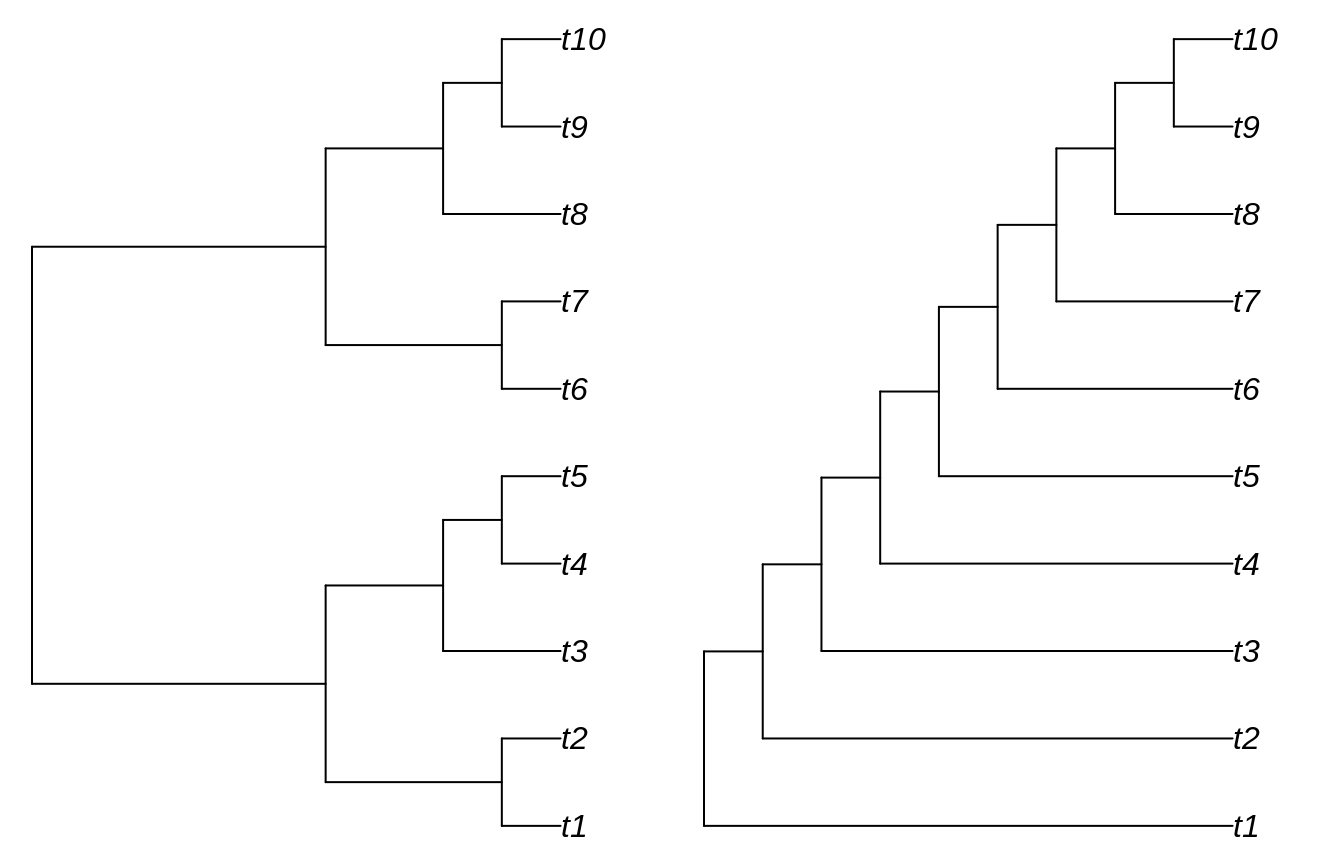
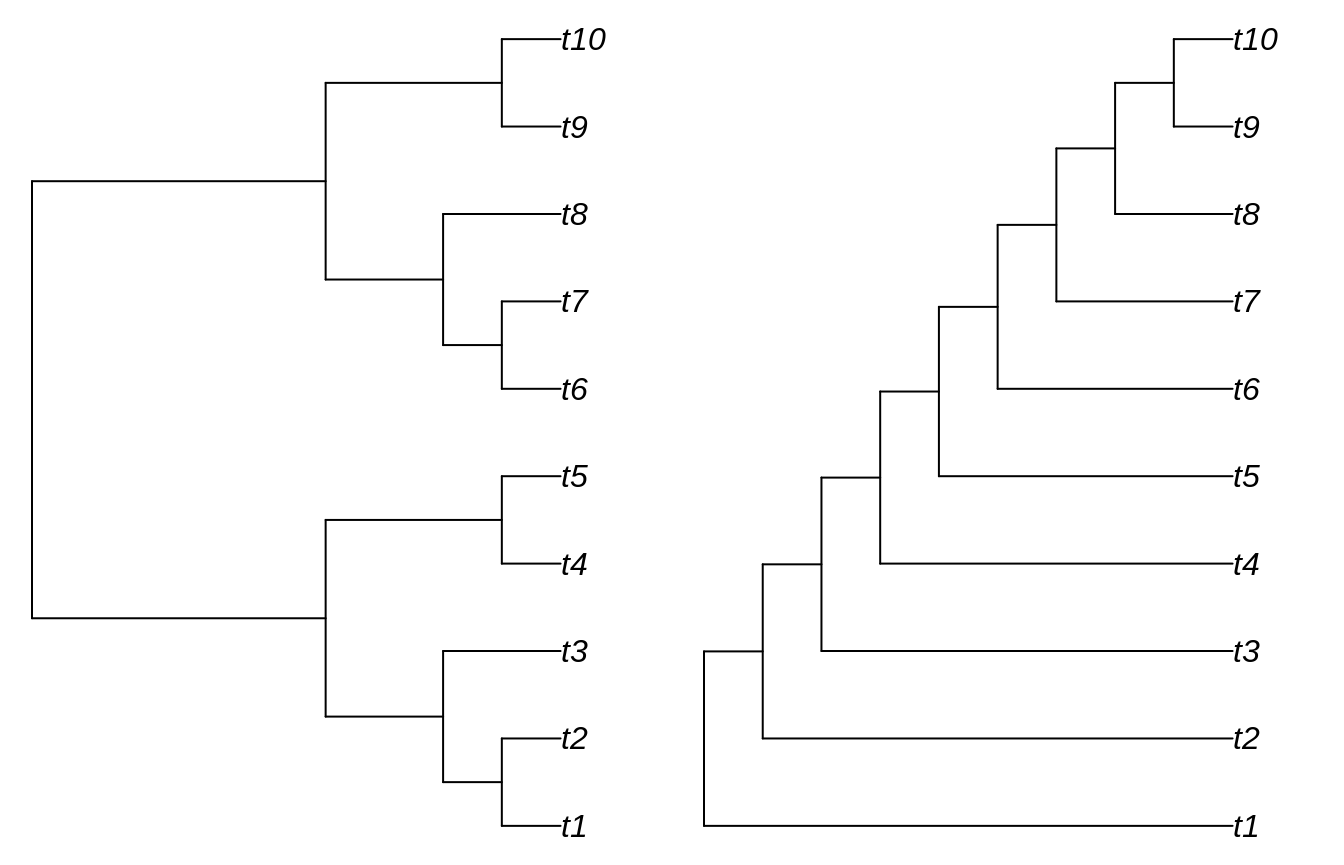
Built site for TBRDist: 1.0.0@6a52840

diff --git a/articles/TBRDist.html b/articles/TBRDist.html
@@ -76,7 +76,7 @@
       <h1 data-toc-skip>Using TBRDist</h1>
                         <h4 class="author">Martin R. Smith</h4>
             
-            <h4 class="date">2020-04-16</h4>
+            <h4 class="date">2020-06-19</h4>
       
       <small class="dont-index">Source: <a href="https://github.com/ms609/TBRDist/blob/master/vignettes/TBRDist.Rmd"><code>vignettes/TBRDist.Rmd</code></a></small>
       <div class="hidden name"><code>TBRDist.Rmd</code></div>
@@ -91,41 +91,42 @@
 <a href="#loading-trees" class="anchor"></a>Loading trees</h2>
 <p>This document assumes familiarity with the process of <a href="https://ms609.github.io/TreeTools/articles/load-trees.html">loading trees into R</a>.</p>
 <p>We’ll work with some simple trees generated using the ‘<a href="https://ms609.github.io/TreeTools">TreeTools</a>’ package.</p>
-<div class="sourceCode" id="cb1"><html><body><pre class="r"><span class="fu"><a href="https://rdrr.io/r/base/library.html">library</a></span>(<span class="st">'TreeTools'</span>)</pre></body></html></div>
-<pre><code>## Loading required package: ape</code></pre>
-<div class="sourceCode" id="cb3"><html><body><pre class="r"><span class="no">tree1</span> <span class="kw">&lt;-</span> <span class="fu"><a href="https://ms609.github.io/TreeTools/reference/BalancedTree.html">BalancedTree</a></span>(<span class="fl">10</span>)
-<span class="no">tree2</span> <span class="kw">&lt;-</span> <span class="kw pkg">TreeTools</span><span class="kw ns">::</span><span class="fu"><a href="https://ms609.github.io/TreeTools/reference/PectinateTree.html">PectinateTree</a></span>(<span class="fl">10</span>)
-<span class="fu"><a href="https://rdrr.io/r/graphics/par.html">par</a></span>(<span class="kw">mfrow</span><span class="kw">=</span><span class="fl">1</span>:<span class="fl">2</span>, <span class="kw">mar</span><span class="kw">=</span><span class="fu"><a href="https://rdrr.io/r/base/rep.html">rep</a></span>(<span class="fl">0.2</span>, <span class="fl">4</span>)) <span class="co"># Set up plotting area</span>
-<span class="fu"><a href="https://rdrr.io/r/graphics/plot.html">plot</a></span>(<span class="no">tree1</span>)
-<span class="fu"><a href="https://rdrr.io/r/graphics/plot.html">plot</a></span>(<span class="no">tree2</span>)</pre></body></html></div>
+<div class="sourceCode" id="cb1"><html><body><pre class="r"><span class="fu"><a href="https://rdrr.io/r/base/library.html">library</a></span>(<span class="st">'TreeTools'</span>, <span class="kw">quietly</span> <span class="kw">=</span> <span class="fl">TRUE</span>, <span class="kw">warn.conflicts</span> <span class="kw">=</span> <span class="fl">FALSE</span>)
+
+<span class="no">tree1</span> <span class="kw">&lt;-</span> <span class="fu"><a href="https://ms609.github.io/TreeTools/reference/GenerateTree.html">BalancedTree</a></span>(<span class="fl">10</span>)
+<span class="no">tree2</span> <span class="kw">&lt;-</span> <span class="fu"><a href="https://ms609.github.io/TreeTools/reference/GenerateTree.html">PectinateTree</a></span>(<span class="fl">10</span>)
+
+<span class="fu"><a href="https://rdrr.io/r/graphics/par.html">par</a></span>(<span class="kw">mfrow</span> <span class="kw">=</span> <span class="fl">1</span>:<span class="fl">2</span>, <span class="kw">mar</span> <span class="kw">=</span> <span class="fu"><a href="https://rdrr.io/r/base/rep.html">rep</a></span>(<span class="fl">0.2</span>, <span class="fl">4</span>)) <span class="co"># Set up plotting area</span>
+<span class="fu"><a href="https://rdrr.io/r/base/plot.html">plot</a></span>(<span class="no">tree1</span>)
+<span class="fu"><a href="https://rdrr.io/r/base/plot.html">plot</a></span>(<span class="no">tree2</span>)</pre></body></html></div>
 <p><img src="TBRDist_files/figure-html/unnamed-chunk-1-1.png" width="672"></p>
 </div>
 <div id="calculating-distances" class="section level2">
 <h2 class="hasAnchor">
 <a href="#calculating-distances" class="anchor"></a>Calculating distances</h2>
 <p>After installing TBRDist (<code><a href="https://rdrr.io/r/utils/install.packages.html">install.packages('TBRDist')</a></code>), load the package into R with</p>
-<div class="sourceCode" id="cb4"><html><body><pre class="r"><span class="fu"><a href="https://rdrr.io/r/base/library.html">library</a></span>(<span class="st">'TBRDist'</span>)</pre></body></html></div>
+<div class="sourceCode" id="cb2"><html><body><pre class="r"><span class="fu"><a href="https://rdrr.io/r/base/library.html">library</a></span>(<span class="st">'TBRDist'</span>)</pre></body></html></div>
 <p>To generate an approximate SPR distance between two unrooted trees, use:</p>
-<div class="sourceCode" id="cb5"><html><body><pre class="r"><span class="fu"><a href="../reference/TreeRearrangementDistances.html">USPRDist</a></span>(<span class="no">tree1</span>, <span class="no">tree2</span>)</pre></body></html></div>
+<div class="sourceCode" id="cb3"><html><body><pre class="r"><span class="fu"><a href="../reference/TreeRearrangementDistances.html">USPRDist</a></span>(<span class="no">tree1</span>, <span class="no">tree2</span>)</pre></body></html></div>
 <pre><code>## [1] 2</code></pre>
 <p>For Replug distances, it’s:</p>
-<div class="sourceCode" id="cb7"><html><body><pre class="r"><span class="fu"><a href="../reference/TreeRearrangementDistances.html">ReplugDist</a></span>(<span class="no">tree1</span>, <span class="no">tree2</span>)</pre></body></html></div>
+<div class="sourceCode" id="cb5"><html><body><pre class="r"><span class="fu"><a href="../reference/TreeRearrangementDistances.html">ReplugDist</a></span>(<span class="no">tree1</span>, <span class="no">tree2</span>)</pre></body></html></div>
 <pre><code>## [1] 2</code></pre>
 <p>For TBR distances, use:</p>
-<div class="sourceCode" id="cb9"><html><body><pre class="r"><span class="fu"><a href="../reference/TreeRearrangementDistances.html">TBRDist</a></span>(<span class="no">tree1</span>, <span class="no">tree2</span>, <span class="kw">exact</span> <span class="kw">=</span> <span class="fl">TRUE</span>)</pre></body></html></div>
+<div class="sourceCode" id="cb7"><html><body><pre class="r"><span class="fu"><a href="../reference/TreeRearrangementDistances.html">TBRDist</a></span>(<span class="no">tree1</span>, <span class="no">tree2</span>, <span class="kw">exact</span> <span class="kw">=</span> <span class="fl">TRUE</span>)</pre></body></html></div>
 <pre><code>## [1] 1</code></pre>
 <p>When calculating an exact TBR distance, we receive information on the maximum agreement forest for free (i.e. with no extra processing cost):</p>
-<div class="sourceCode" id="cb11"><html><body><pre class="r"><span class="fu"><a href="../reference/TreeRearrangementDistances.html">TBRDist</a></span>(<span class="no">tree1</span>, <span class="no">tree2</span>, <span class="kw">exact</span> <span class="kw">=</span> <span class="fl">TRUE</span>, <span class="kw">maf</span> <span class="kw">=</span> <span class="fl">TRUE</span>)</pre></body></html></div>
+<div class="sourceCode" id="cb9"><html><body><pre class="r"><span class="fu"><a href="../reference/TreeRearrangementDistances.html">TBRDist</a></span>(<span class="no">tree1</span>, <span class="no">tree2</span>, <span class="kw">exact</span> <span class="kw">=</span> <span class="fl">TRUE</span>, <span class="kw">maf</span> <span class="kw">=</span> <span class="fl">TRUE</span>)</pre></body></html></div>
 <pre><code>## $tbr_exact
 ## [1] 1
 ## 
 ## $maf_1
-## [1] "((t4,t5),t3,(t1,t2)); ((t7,t6),(t9,t10),t8);"
+## [1] "(t4,t5,((t1,t2),t3)); ((t9,t10),t8,(t7,t6));"
 ## 
 ## $maf_2
-## [1] "((t1,t2),(t4,t5),t3); ((t6,t7),(t9,t10),t8);"</code></pre>
+## [1] "(((t1,t2),t3),t4,t5); ((t6,t7),(t9,t10),t8);"</code></pre>
 <p>Once trees have more than about a dozen tips, it becomes slow to calculate the exact distance. In the interests of speed, we may wish to approximate the value of the TBR distance:</p>
-<div class="sourceCode" id="cb13"><html><body><pre class="r"><span class="fu"><a href="../reference/TreeRearrangementDistances.html">TBRDist</a></span>(<span class="no">tree1</span>, <span class="no">tree2</span>, <span class="kw">exact</span> <span class="kw">=</span> <span class="fl">FALSE</span>)</pre></body></html></div>
+<div class="sourceCode" id="cb11"><html><body><pre class="r"><span class="fu"><a href="../reference/TreeRearrangementDistances.html">TBRDist</a></span>(<span class="no">tree1</span>, <span class="no">tree2</span>, <span class="kw">exact</span> <span class="kw">=</span> <span class="fl">FALSE</span>)</pre></body></html></div>
 <pre><code>## $tbr_min
 ## [1] 1
 ## 
@@ -136,19 +137,19 @@
 <h2 class="hasAnchor">
 <a href="#comparing-multiple-trees" class="anchor"></a>Comparing multiple trees</h2>
 <p>To avoid multiple calls, each function can also be used to compare lists of trees (or <code>multiPhylo</code> objects) against a single tree:</p>
-<div class="sourceCode" id="cb15"><html><body><pre class="r"><span class="fu"><a href="../reference/TreeRearrangementDistances.html">TBRDist</a></span>(<span class="no">tree1</span>, <span class="fu"><a href="https://rdrr.io/r/base/list.html">list</a></span>(<span class="no">tree1</span>, <span class="no">tree2</span>), <span class="kw">exact</span> <span class="kw">=</span> <span class="fl">TRUE</span>, <span class="kw">maf</span> <span class="kw">=</span> <span class="fl">TRUE</span>)</pre></body></html></div>
+<div class="sourceCode" id="cb13"><html><body><pre class="r"><span class="fu"><a href="../reference/TreeRearrangementDistances.html">TBRDist</a></span>(<span class="no">tree1</span>, <span class="fu"><a href="https://rdrr.io/r/base/list.html">list</a></span>(<span class="no">tree1</span>, <span class="no">tree2</span>), <span class="kw">exact</span> <span class="kw">=</span> <span class="fl">TRUE</span>, <span class="kw">maf</span> <span class="kw">=</span> <span class="fl">TRUE</span>)</pre></body></html></div>
 <pre><code>## $tbr_exact
 ## [1] 0 1
 ## 
 ## $maf_1
-## [1] "((((t1,t2),((t4,t5),t3)),(t6,t7)),(t9,t10),t8);"
-## [2] "((t4,t5),t3,(t1,t2)); ((t7,t6),(t9,t10),t8);"   
+## [1] "((((t1,t2),t3),(t4,t5)),(t9,t10),((t6,t7),t8));"
+## [2] "(t4,t5,((t1,t2),t3)); ((t9,t10),t8,(t7,t6));"   
 ## 
 ## $maf_2
-## [1] "((((t1,t2),((t4,t5),t3)),(t6,t7)),(t9,t10),t8);"
-## [2] "((t1,t2),(t4,t5),t3); ((t6,t7),(t9,t10),t8);"</code></pre>
+## [1] "((((t1,t2),t3),(t4,t5)),(t9,t10),((t6,t7),t8));"
+## [2] "(((t1,t2),t3),t4,t5); ((t6,t7),(t9,t10),t8);"</code></pre>
 <p>Or against each corresponding entry in a second list:</p>
-<div class="sourceCode" id="cb17"><html><body><pre class="r"><span class="fu"><a href="../reference/TreeRearrangementDistances.html">USPRDist</a></span>(<span class="fu"><a href="https://rdrr.io/r/base/list.html">list</a></span>(<span class="no">tree1</span>, <span class="no">tree2</span>, <span class="no">tree2</span>), <span class="fu"><a href="https://rdrr.io/r/base/list.html">list</a></span>(<span class="no">tree2</span>, <span class="no">tree1</span>, <span class="no">tree2</span>))</pre></body></html></div>
+<div class="sourceCode" id="cb15"><html><body><pre class="r"><span class="fu"><a href="../reference/TreeRearrangementDistances.html">USPRDist</a></span>(<span class="fu"><a href="https://rdrr.io/r/base/list.html">list</a></span>(<span class="no">tree1</span>, <span class="no">tree2</span>, <span class="no">tree2</span>), <span class="fu"><a href="https://rdrr.io/r/base/list.html">list</a></span>(<span class="no">tree2</span>, <span class="no">tree1</span>, <span class="no">tree2</span>))</pre></body></html></div>
 <pre><code>## [1] 2 2 0</code></pre>
 </div>
 <div id="citation" class="section level2">
@@ -158,9 +159,9 @@
 <ul>
 <li>Chris Whidden and Frederick A. Matsen IV (2017). Calculating the Unrooted Subtree-Prune-and-Regraft Distance. eprint arXiv:<a href="http://arxiv.org/abs/1511.07529">1511.07529</a>.</li>
 </ul>
-<p>Optionally, a citation to the TBRDist package would be welcome:</p>
+<p>Optionally, a citation to the ‘TBRDist’ R package would be welcome:</p>
 <ul>
-<li>Smith (2019). TBRDist: Calculate SPR and TBR distance between unrooted phylogenetic trees. <a href="doi:%5B10.5281/zenodo.3548333%5D(https://dx.doi.org/10.5281/zenodo.3548333)" class="uri">doi:[10.5281/zenodo.3548333](https://dx.doi.org/10.5281/zenodo.3548333)</a>
+<li>Smith (2019). TBRDist: Calculate SPR and TBR distance between unrooted phylogenetic trees. <a href="https://dx.doi.org/10.5281/zenodo.3548333">doi:10.5281/zenodo.3548333</a>
 </li>
 </ul>
 </div>

diff --git a/reference/TreeRearrangementDistances.html b/reference/TreeRearrangementDistances.html
@@ -40,7 +40,8 @@
 
 
 <meta property="og:title" content="Calculate SPR, TBR and Replug distances on unrooted trees — TreeRearrangementDistances" />
-<meta property="og:description" content="Calculate SPR, TBR and Replug distances on unrooted trees." />
+<meta property="og:description" content="Calculate SPR, TBR and Replug distances on unrooted trees, and the
+information content of the maximum agreement forest." />
 
 
 
@@ -120,7 +121,8 @@
     </div>
 
     <div class="ref-description">
-    <p>Calculate SPR, TBR and Replug distances on unrooted trees.</p>
+    <p>Calculate SPR, TBR and Replug distances on unrooted trees, and the
+information content of the maximum agreement forest.</p>
     </div>
 
     <pre class="usage"><span class='fu'>USPRDist</span>(
@@ -217,7 +219,8 @@ required.</p></td>
     </tr>
     <tr>
       <th>protectB</th>
-      <td><p>Logical specifying whether to use the PROTECT_B optimization.
+      <td><p>Logical specifying whether to use the 'PROTECT_B'
+optimization.
 Overrides value inherited from <code>optimize</code>.</p></td>
     </tr>
     </table>
@@ -229,9 +232,9 @@ unrooted trees.</p>
 <p><code>ReplugDist()</code> returns a vector of Replug distances between each pair
 of trees, or (if <code>maf = TRUE</code>) a named list whose second and third elements
 list a vector of maximum agreement forests for each pair of trees.</p>
-<p><code>TBRDist()</code> returns a named list, each element of which bears a vector
-corresponding to the requested value for each tree pair.  If only the exact
-value is requested (<code>exact = TRUE</code>), an unnamed vector of distances is
+<p><code>TBRDist()</code> returns a named list, each element of which bears a
+vector corresponding to the requested value for each tree pair.  If only the
+exact value is requested (<code>exact = TRUE</code>), an unnamed vector of distances is
 returned.</p>
 <p><code>MAFInfo()</code> returns the information content of the maximum agreement
 forest, in bits.  This is defined as the sum of the phylogenetic information
@@ -242,8 +245,9 @@ this measure is approximate only.  <code>exact</code> will only serve to guarant
 that a MAF corresponding to the exact TBR distance is among those sampled.</p>
     <h2 class="hasAnchor" id="details"><a class="anchor" href="#details"></a>Details</h2>
 
-    <p>Note that these distances are NP-hard to compute and most of the algorithms
-used in this software scale exponentially with the distance computed.
+    <p>Note that these distances are NP-hard to compute, so the running time of the
+algorithms used in this software scale exponentially with the distance
+computed.
 The version of 'uspr' linked in this package is aimed at trees with up to
 50 leaves and uSPR distances up to 14.</p>
 <p>If you are interested in comparing rooted trees in terms of SPR operations,
@@ -263,24 +267,21 @@ arXiv:<a href='http://arxiv.org/abs/1511.07529'>1511.07529</a>.</p></li>
 
 
     <h2 class="hasAnchor" id="examples"><a class="anchor" href="#examples"></a>Examples</h2>
-    <pre class="examples"><div class='input'><span class='no'>tree1</span> <span class='kw'>&lt;-</span> <span class='kw pkg'>TreeTools</span><span class='kw ns'>::</span><span class='fu'><a href='https://ms609.github.io/TreeTools/reference/BalancedTree.html'>BalancedTree</a></span>(<span class='fl'>9</span>)
-<span class='no'>tree2</span> <span class='kw'>&lt;-</span> <span class='kw pkg'>TreeTools</span><span class='kw ns'>::</span><span class='fu'><a href='https://ms609.github.io/TreeTools/reference/PectinateTree.html'>PectinateTree</a></span>(<span class='fl'>9</span>)
+    <pre class="examples"><div class='input'><span class='no'>tree1</span> <span class='kw'>&lt;-</span> <span class='kw pkg'>TreeTools</span><span class='kw ns'>::</span><span class='fu'><a href='https://ms609.github.io/TreeTools/reference/GenerateTree.html'>BalancedTree</a></span>(<span class='fl'>9</span>)
+<span class='no'>tree2</span> <span class='kw'>&lt;-</span> <span class='kw pkg'>TreeTools</span><span class='kw ns'>::</span><span class='fu'><a href='https://ms609.github.io/TreeTools/reference/GenerateTree.html'>PectinateTree</a></span>(<span class='fl'>9</span>)
 
 <span class='co'># SPR distance</span>
-<span class='fu'>USPRDist</span>(<span class='no'>tree1</span>, <span class='no'>tree2</span>)</div><div class='output co'>#&gt; [1] 2</div><div class='input'>
-
-<span class='co'># Replug distance</span>
+<span class='fu'>USPRDist</span>(<span class='no'>tree1</span>, <span class='no'>tree2</span>)</div><div class='output co'>#&gt; [1] 2</div><div class='input'><span class='co'># Replug distance</span>
 <span class='fu'>ReplugDist</span>(<span class='no'>tree1</span>, <span class='no'>tree2</span>)</div><div class='output co'>#&gt; [1] 2</div><div class='input'><span class='fu'>ReplugDist</span>(<span class='no'>tree1</span>, <span class='no'>tree2</span>, <span class='kw'>maf</span> <span class='kw'>=</span> <span class='fl'>TRUE</span>)</div><div class='output co'>#&gt; $replug_dist
 #&gt; [1] 2
 #&gt; 
 #&gt; $maf_1
-#&gt; [1] "((((0,1),2),4),(7,8),6); (*,3); (*,5);"
+#&gt; [1] "((((0,1),2),3),(7,8),5); (*,4); (*,6);"
 #&gt; 
 #&gt; $maf_2
-#&gt; [1] "((((0,1),2),4),(7,8),6); (*,3); (*,5);"
-#&gt; </div><div class='input'>
-<span class='no'>tree1</span> <span class='kw'>&lt;-</span> <span class='kw pkg'>TreeTools</span><span class='kw ns'>::</span><span class='fu'><a href='https://ms609.github.io/TreeTools/reference/BalancedTree.html'>BalancedTree</a></span>(<span class='fl'>6</span>)
-<span class='no'>tree2</span> <span class='kw'>&lt;-</span> <span class='kw pkg'>TreeTools</span><span class='kw ns'>::</span><span class='fu'><a href='https://ms609.github.io/TreeTools/reference/PectinateTree.html'>PectinateTree</a></span>(<span class='fl'>6</span>)
+#&gt; [1] "((((0,1),2),3),(7,8),5); (*,4); (*,6);"
+#&gt; </div><div class='input'><span class='no'>tree1</span> <span class='kw'>&lt;-</span> <span class='kw pkg'>TreeTools</span><span class='kw ns'>::</span><span class='fu'><a href='https://ms609.github.io/TreeTools/reference/GenerateTree.html'>BalancedTree</a></span>(<span class='fl'>6</span>)
+<span class='no'>tree2</span> <span class='kw'>&lt;-</span> <span class='kw pkg'>TreeTools</span><span class='kw ns'>::</span><span class='fu'><a href='https://ms609.github.io/TreeTools/reference/GenerateTree.html'>PectinateTree</a></span>(<span class='fl'>6</span>)
 
 <span class='co'># TBR distance between two trees</span>
 <span class='fu'>TBRDist</span>(<span class='no'>tree1</span>, <span class='no'>tree2</span>, <span class='kw'>exact</span> <span class='kw'>=</span> <span class='fl'>TRUE</span>)</div><div class='output co'>#&gt; [1] 1</div><div class='input'>
@@ -332,12 +333,11 @@ arXiv:<a href='http://arxiv.org/abs/1511.07529'>1511.07529</a>.</p></li>
 <span class='co'># Capture maximum agreement forests</span>
 <span class='no'>mafs</span> <span class='kw'>&lt;-</span> <span class='fu'><a href='https://rdrr.io/r/utils/capture.output.html'>capture.output</a></span>(<span class='fu'>TBRDist</span>(<span class='no'>tree1</span>, <span class='no'>tree2</span>, <span class='kw'>approximate</span> <span class='kw'>=</span> <span class='fl'>FALSE</span>,
                         <span class='kw'>printMafs</span> <span class='kw'>=</span> <span class='fl'>TRUE</span>))
-<span class='fu'><a href='https://rdrr.io/r/utils/head.html'>head</a></span>(<span class='no'>mafs</span>)</div><div class='output co'>#&gt; [1] "((0,1),(4,5),3); 2;" "((0,1),(4,5),3); 2;" "((0,2),(4,5),3); 1;"
-#&gt; [4] "((0,2),(4,5),3); 1;" "0; ((2,1),(4,5),3);" "0; ((1,2),(4,5),3);"</div><div class='input'>
+<span class='fu'><a href='https://rdrr.io/r/utils/head.html'>head</a></span>(<span class='no'>mafs</span>)</div><div class='output co'>#&gt; [1] "((0,1),(3,4),2); 5;" "((0,1),(3,4),2); 5;" "(0,1,2); (5,4,3);"  
+#&gt; [4] "(0,1,2); (3,5,4);"   "(((0,1),2),4,5); 3;" "(((0,1),2),4,5); 3;"</div><div class='input'>
 <span class='fu'>MAFInfo</span>(<span class='no'>tree1</span>, <span class='no'>tree2</span>)</div><div class='output co'>#&gt; [1] 4.556913</div><div class='input'><span class='fu'>MAFInfo</span>(<span class='fu'><a href='https://rdrr.io/r/base/list.html'>list</a></span>(<span class='no'>tree2</span>, <span class='no'>tree1</span>), <span class='fu'><a href='https://rdrr.io/r/base/list.html'>list</a></span>(<span class='no'>tree1</span>, <span class='no'>tree2</span>))</div><div class='output co'>#&gt;          [,1]     [,2]
 #&gt; [1,] 4.556913 6.714246
-#&gt; [2,] 6.714246 4.556913</div><div class='input'>
-</div></pre>
+#&gt; [2,] 6.714246 4.556913</div></pre>
   </div>
   <div class="col-md-3 hidden-xs hidden-sm" id="pkgdown-sidebar">
     <nav id="toc" data-toggle="toc" class="sticky-top">

diff --git a/index.html b/index.html
@@ -82,7 +82,7 @@
 
 <p>‘TBRDist’ allows the calculation of SPR, TBR and Replug distances between unrooted phylogenetic trees from within R, using <a href="https://github.com/cwhidden/uspr">algorithms</a> written in C++ by <a href="https://web.cs.dal.ca/~whidden/">Chris Whidden</a>. Whidden and Matsen (2017) provide more information on the motivation behind this project, the algorithms used and their expected performance.</p>
 <p>The uSPR distance is a natural distance metric with respect to phylogenetic tree search, as common tree search and sampling software mainly use SPR operations (or NNI operations, a subset of SPR operations). The uSPR distance is also a lower bound on the number of lateral gene transfer events required to explain the difference between a reference/species tree and a gene tree.</p>
-<p>Note that the uSPR distance is NP-hard to compute (as are the TBR and replug distances) and most of the algorithms used in this software scale exponentially with the distance computed. This version of TBRDist is aimed at trees with up to 50 leaves and uSPR distances up to 14.</p>
+<p>Note that the uSPR distance is NP-hard to compute (as are the TBR and replug distances) and the running time of most of the algorithms used in this software scales exponentially with the distance computed. This version of TBRDist is aimed at trees with up to 50 leaves and uSPR distances up to 14.</p>
 <p>If you are interested in comparing rooted trees in terms of SPR operations, you should use <a href="https://github.com/cwhidden/rspr">rspr</a> instead. rspr is also much more efficient and can easily handle pairs of binary rooted trees with 200+ leaves and distances &gt; 50. rspr is not yet incorporated in this R package; please <a href="https://github.com/ms609/TBRDist/issues/2">contact the maintainer</a> if this would be useful to you.</p>
 </div>
 <div id="installation" class="section level1">
@@ -91,17 +91,21 @@
 <p>Install and load the library from CRAN (coming soon!) as follows:</p>
 <pre><code><a href="https://rdrr.io/r/utils/install.packages.html">install.packages('TBRDist')
 library('TBRDist')</a></code></pre>
-<p>If you’re feeling brave, you can install the development version thus:</p>
+<p>You can install the development version thus:</p>
 <div class="sourceCode" id="cb2"><pre class="r"><span class="kw">if</span>(!<span class="fu"><a href="https://rdrr.io/r/base/library.html">require</a></span>(<span class="no">devtools</span>)) <span class="fu"><a href="https://rdrr.io/r/utils/install.packages.html">install.packages</a></span>(<span class="st">"devtools"</span>)
 <span class="kw pkg">devtools</span><span class="kw ns">::</span><span class="fu"><a href="https://devtools.r-lib.org//reference/remote-reexports.html">install_github</a></span>(<span class="st">'ms609/TBRDist'</span>)</pre></div>
-<p>Advanced users wishing to use check out the source code using git should note that the project contains <a href="https://github.blog/2016-02-01-working-with-submodules/">submodules</a>. To download the contents of these subdirectories, check out the project using <code>git clone --recursive https://github.com/ms609/TBRDist</code>, or if you’ve already checked out the project, run <code>git submodule update --init --recursive</code>.</p>
+<p>Advanced users wishing to access the source code should note that the project contains <a href="https://github.blog/2016-02-01-working-with-submodules/">submodules</a>. To download the contents of these subdirectories, clone the project using <code>git clone --recursive https://github.com/ms609/TBRDist</code>, or if you’ve already cloned the project, run <code>git submodule update --init --recursive</code>.</p>
 </div>
 <div id="usage" class="section level1">
 <h1 class="hasAnchor">
 <a href="#usage" class="anchor"></a>Usage</h1>
-<p>If you use uspr in your research, please cite:</p>
+<p>If you use ‘uspr’ in your research, please cite:</p>
 <p>Chris Whidden and Frederick A. Matsen IV. Calculating the Unrooted Subtree-Prune-and-Regraft Distance. eprint arXiv:1511.07529. <a href="http://arxiv.org/abs/1511.07529" class="uri">http://arxiv.org/abs/1511.07529</a></p>
-<p>Some text in this README file is drawn from the <a href="https://github.com/cwhidden/uspr/blob/master/README.md">uspr readme</a>.</p>
+</div>
+<div id="notes" class="section level1">
+<h1 class="hasAnchor">
+<a href="#notes" class="anchor"></a>Notes</h1>
+<p>Some text in this README file originates from the <a href="https://github.com/cwhidden/uspr/blob/master/README.md">‘uspr’ readme</a>.</p>
 <p>Please note that the ‘TBRDist’ project is released with a <a href="CODE_OF_CONDUCT.html">Contributor Code of Conduct</a>. By contributing to this project, you agree to abide by its terms.</p>
 </div>
 

diff --git a/404.html b/404.html
@@ -18,8 +18,8 @@
 <script src="https://cdnjs.cloudflare.com/ajax/libs/twitter-bootstrap/3.4.1/js/bootstrap.min.js" integrity="sha256-nuL8/2cJ5NDSSwnKD8VqreErSWHtnEP9E7AySL+1ev4=" crossorigin="anonymous"></script>
 
 <!-- bootstrap-toc -->
-<link rel="stylesheet" href="https://ms609.github.io/uspr//bootstrap-toc.css">
-<script src="https://ms609.github.io/uspr//bootstrap-toc.js"></script>
+<link rel="stylesheet" href="https://ms609.github.io/TBRDist//bootstrap-toc.css">
+<script src="https://ms609.github.io/TBRDist//bootstrap-toc.js"></script>
 
 <!-- Font Awesome icons -->
 <link rel="stylesheet" href="https://cdnjs.cloudflare.com/ajax/libs/font-awesome/5.12.1/css/all.min.css" integrity="sha256-mmgLkCYLUQbXn0B1SRqzHar6dCnv9oZFPEC1g1cwlkk=" crossorigin="anonymous" />
@@ -33,8 +33,8 @@
 <script src="https://cdnjs.cloudflare.com/ajax/libs/headroom/0.11.0/jQuery.headroom.min.js" integrity="sha256-ZX/yNShbjqsohH1k95liqY9Gd8uOiE1S4vZc+9KQ1K4=" crossorigin="anonymous"></script>
 
 <!-- pkgdown -->
-<link href="https://ms609.github.io/uspr//pkgdown.css" rel="stylesheet">
-<script src="https://ms609.github.io/uspr//pkgdown.js"></script>
+<link href="https://ms609.github.io/TBRDist//pkgdown.css" rel="stylesheet">
+<script src="https://ms609.github.io/TBRDist//pkgdown.js"></script>
 
 
 
@@ -70,7 +70,7 @@
         <span class="icon-bar"></span>
       </button>
       <span class="navbar-brand">
-        <a class="navbar-link" href="https://ms609.github.io/uspr//index.html">TBRDist</a>
+        <a class="navbar-link" href="https://ms609.github.io/TBRDist//index.html">TBRDist</a>
         <span class="version label label-default" data-toggle="tooltip" data-placement="bottom" title="Released version">1.0.0</span>
       </span>
     </div>
